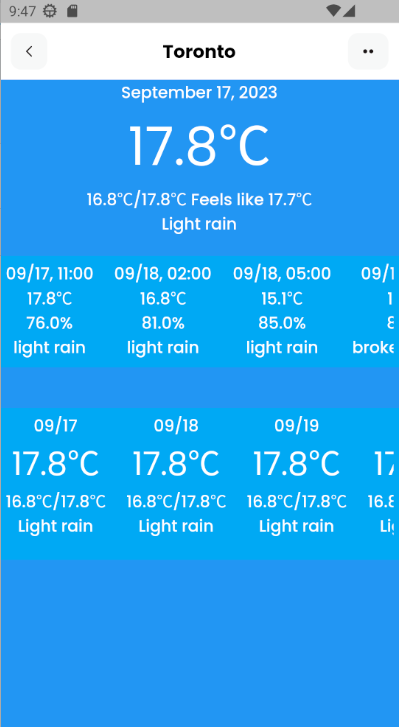
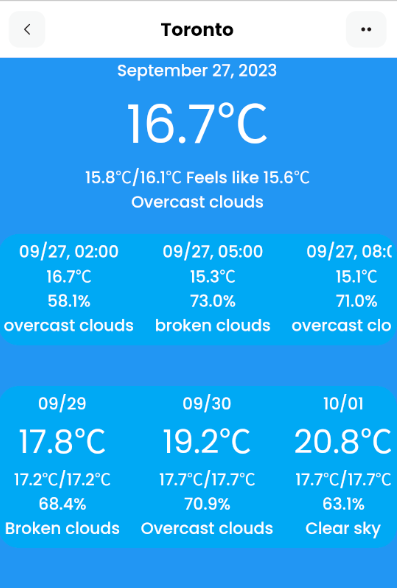
Made daily weather listings more accurate

diff --git a/lib/pages/home.dart b/lib/pages/home.dart
@@ -37,13 +37,50 @@ class HomePageState extends State<HomePage> {
     List<WeatherModel> newWeatherList = (await WeatherService().getNext5DaysWeather() ?? []);
     List<WeatherModel> newWeatherListPerDay = [];
 
-    String? dateseen = "";
+    Map<String, List<WeatherModel>> weathersPerDay = {};
+
     for (WeatherModel model in newWeatherList) {
-      if (model.dateSeen != dateseen) {
-        newWeatherListPerDay.add(model);
-        dateseen = model.dateSeen;
+      if (!weathersPerDay.containsKey(model.dateSeen)) {
+        weathersPerDay[model.dateSeen ?? ""] = [];
       }
+      weathersPerDay[model.dateSeen]?.add(model);
     }
+
+    weathersPerDay.forEach((key, value) {
+      double count = 0.0;
+      double currentTemp = 0.0;
+      double humidity = 0.0;
+
+      Map<String, int> weatherCounts = {};
+
+      for (WeatherModel model in value) {
+        count++;
+        currentTemp += model.temperature ?? 0.0;
+        humidity += model.humidity ?? 0.0;
+
+        if (!weatherCounts.containsKey(model.description)) weatherCounts[model.description ?? ""] = 0;
+        int prevWeatherCount = weatherCounts[model.description ?? ""] ?? 0;
+        weatherCounts[model.description ?? ""] = prevWeatherCount + 1;
+      }
+
+      if (value.isNotEmpty) {
+        WeatherModel dailyModel = value[0];
+        dailyModel.temperature = double.parse((currentTemp / count).toStringAsFixed(1));
+        dailyModel.humidity = double.parse((humidity / count).toStringAsFixed(1));
+
+        String weather = "";
+        int countWeather = 0;
+        for (String recordedWeather in weatherCounts.keys) {
+          if ((weatherCounts[recordedWeather] ?? 0) > countWeather) {
+            countWeather = weatherCounts[recordedWeather] ?? 0;
+            weather = recordedWeather;
+          }
+        }
+
+        dailyModel.description = weather;
+        newWeatherListPerDay.add(dailyModel);
+      }
+    });
 
     setState(() {
       weatherList = newWeatherList;
@@ -97,9 +134,12 @@ class HomePageState extends State<HomePage> {
                   margin: const EdgeInsets.only(top: 20),
                   padding: const EdgeInsets.all(5),
                   alignment: Alignment.center,
-                  color: Colors.lightBlue,
                   height: 110,
                   width: 400,
+                  decoration: const BoxDecoration(
+                    borderRadius: BorderRadius.all(Radius.circular(20)),
+                    color: Colors.lightBlue
+                  ),
                   child: ListView.separated(
                     scrollDirection: Axis.horizontal,
                     itemCount: 5,
@@ -156,9 +196,12 @@ class HomePageState extends State<HomePage> {
                   margin: const EdgeInsets.only(top: 40),
                   padding: const EdgeInsets.all(5),
                   alignment: Alignment.center,
-                  color: Colors.lightBlue,
-                  height: 150,
+                  height: 160,
                   width: 400,
+                  decoration: const BoxDecoration(
+                    borderRadius: BorderRadius.all(Radius.circular(20)),
+                    color: Colors.lightBlue
+                  ),
                   child: ListView.separated(
                     scrollDirection: Axis.horizontal,
                     itemCount: weatherListPerDay.length,
@@ -176,14 +219,14 @@ class HomePageState extends State<HomePage> {
                               ),
                             ),
                             Text(
-                              (weatherList.isNotEmpty) ? "${weatherList[0].temperature}℃" : '',
+                              (weatherListPerDay.isNotEmpty) ? "${weatherListPerDay[index].temperature}℃" : '',
                               style: const TextStyle(
                                 color: Colors.white,
                                 fontSize: 32
                               ),
                             ),
                             Text(
-                              (weatherList.isNotEmpty) ? "${weatherList[0].tempMin}℃/${weatherList[0].tempMax}℃" : '',
+                              (weatherListPerDay.isNotEmpty) ? "${weatherListPerDay[index].tempMin}℃/${weatherListPerDay[index].tempMax}℃" : '',
                               style: const TextStyle(
                                 fontWeight: FontWeight.w500,
                                 color: Colors.white,
@@ -191,7 +234,15 @@ class HomePageState extends State<HomePage> {
                               ),
                             ),
                             Text(
-                              (weatherList.isNotEmpty) ? "${weatherList[0].description?[0].toUpperCase()}${weatherList[0].description?.substring(1)}" : '',
+                              "${weatherListPerDay[index].humidity}%",
+                              style: const TextStyle(
+                                fontWeight: FontWeight.w500,
+                                color: Colors.white,
+                                fontSize: 16
+                              ),
+                            ),
+                            Text(
+                              (weatherListPerDay.isNotEmpty) ? "${weatherListPerDay[index].description?[0].toUpperCase()}${weatherListPerDay[index].description?.substring(1)}" : '',
                               style: const TextStyle(
                                 fontWeight: FontWeight.w500,
                                 color: Colors.white,
